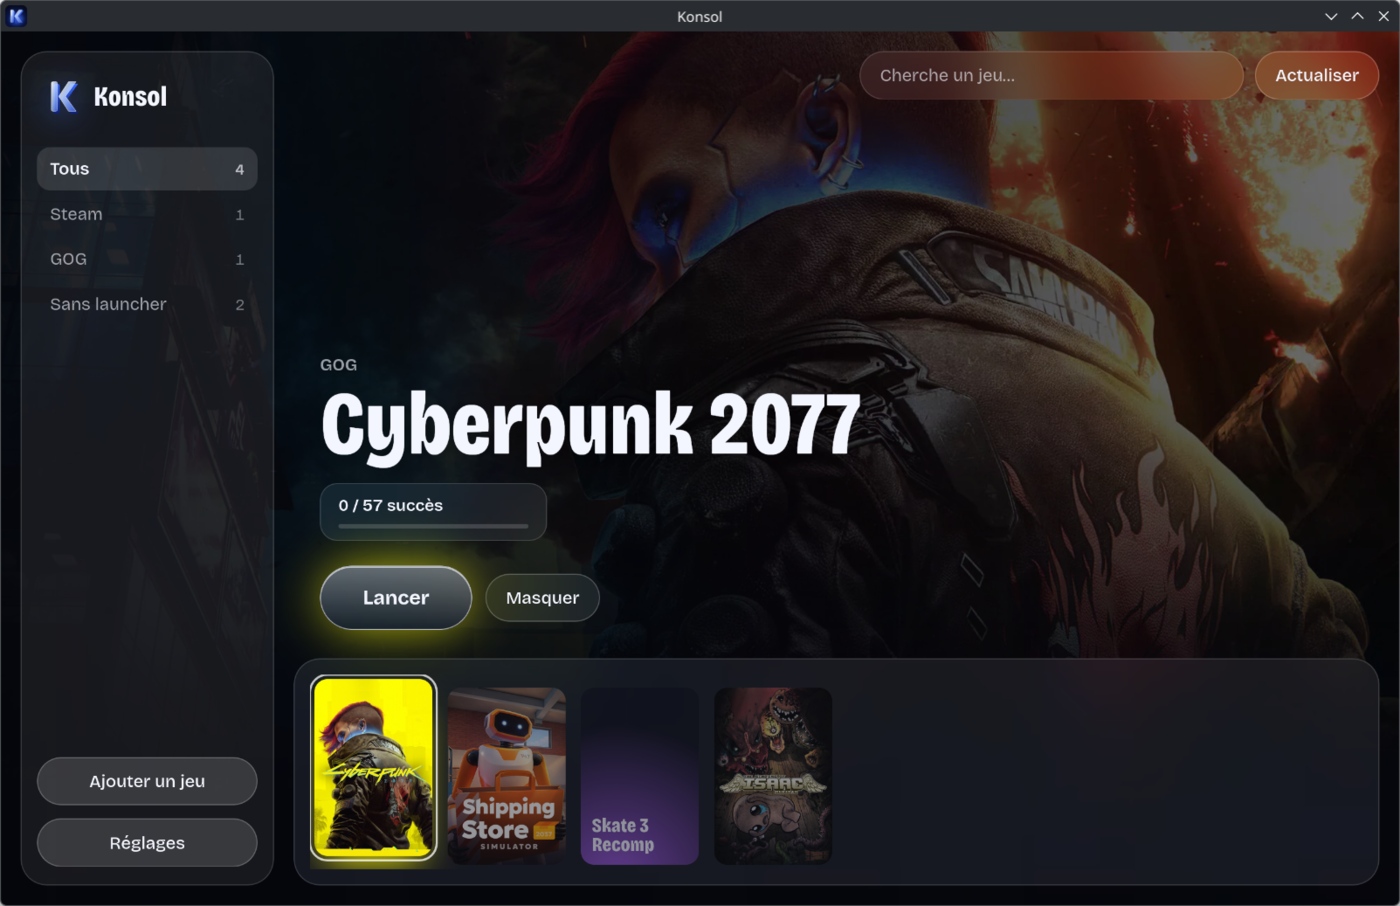
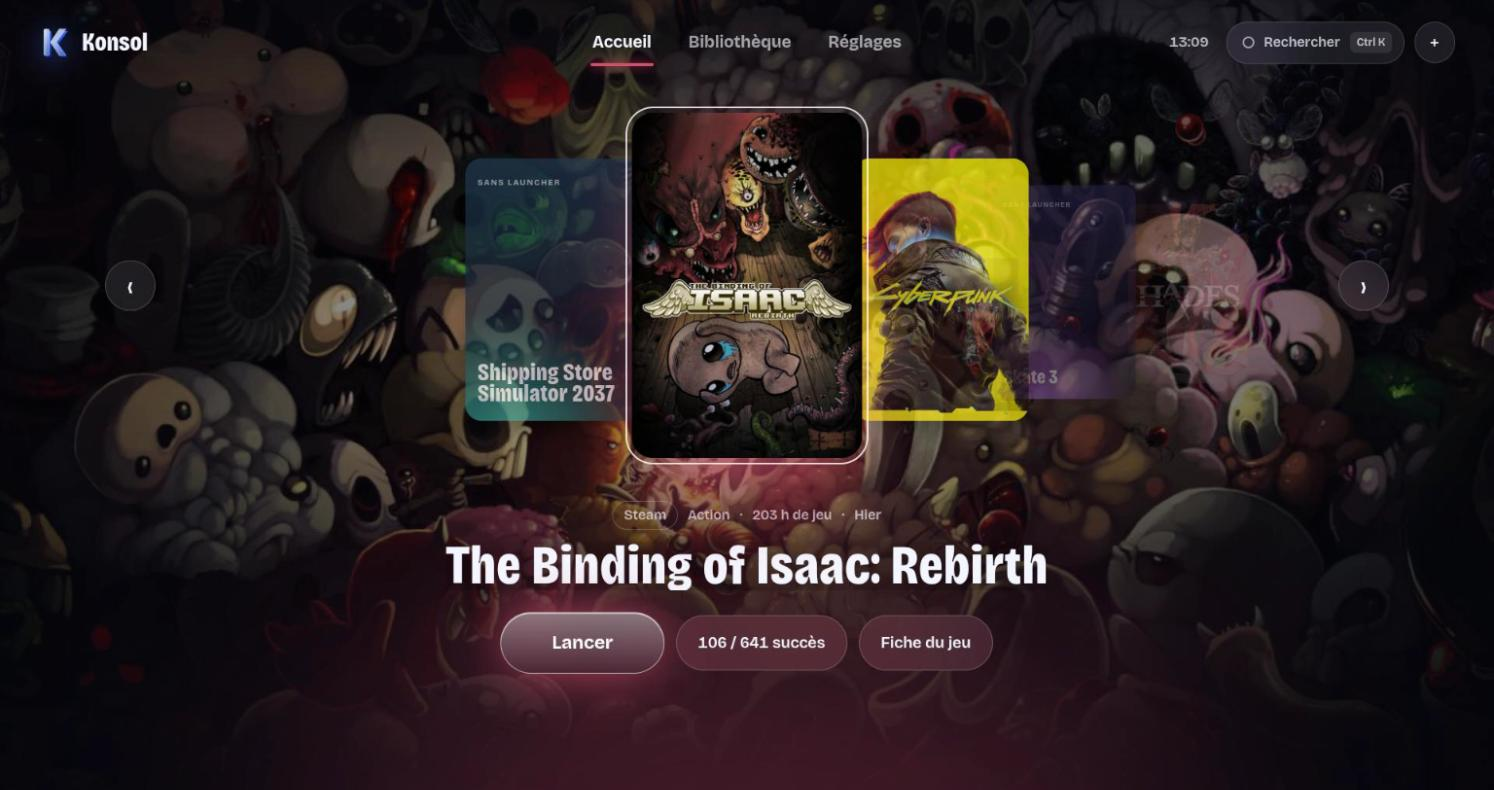
📝 docs: rewrite README for the Carrousel interface and releases

diff --git a/README.md b/README.md
@@ -6,25 +6,48 @@
 
 Tous les jeux du PC au même endroit, lancés sans ouvrir leur launcher.
 
-[![KDE Plasma 6](https://img.shields.io/badge/KDE%20Plasma%206-Linux-0b1a4d?style=for-the-badge)](#-installation)
+[![Télécharger](https://img.shields.io/github/v/release/qyrn/konsol?label=t%C3%A9l%C3%A9charger&color=4a7bff&style=for-the-badge)](../../releases/latest)
+[![Linux](https://img.shields.io/badge/Linux-KDE%20Plasma%206-0b1a4d?style=for-the-badge)](../../releases/latest)
 
 <br />
 
-<img src="docs/hero.png" width="600" alt="Konsol avec Cyberpunk 2077 sélectionné : l'image du jeu en fond, son titre en grand, 0 / 57 succès, le bouton Lancer, et en bas les jaquettes de Cyberpunk, Shipping Store Simulator, Skate 3 Recomp et Isaac" />
+<img src="docs/hero.png" width="600" alt="L'accueil de Konsol : un carrousel de jaquettes avec The Binding of Isaac au centre, son titre en grand, Action, 203 h de jeu, Hier, et les boutons Lancer, 106 / 641 succès et Fiche du jeu" />
 
 </div>
 
 <br />
 
-J'en avais marre d'ouvrir Steam, Heroic ou un launcher différent à chaque fois que je voulais jouer. Alors j'ai fait Konsol : tous les jeux installés sont dans une seule fenêtre, tu choisis, tu lances, et le launcher reste caché derrière.
+J'en avais marre d'ouvrir Steam, Heroic ou un launcher différent à chaque fois que je voulais jouer. Alors j'ai fait Konsol : tous les jeux du PC sont dans une seule fenêtre, tu choisis, tu lances, et le launcher reste caché derrière.
 
-## 🎮 Tous tes jeux, d'où qu'ils viennent
+## 🎮 Tous tes jeux, même ceux sans launcher
 
-Konsol va chercher tout seul les jeux Steam, ceux de Heroic (GOG, Epic et Amazon) et les jeux sans launcher qui ont un raccourci dans ton menu, genre un repack dans un préfixe Wine ou un recomp natif. Il garde seulement les vrais jeux : les outils de Steam comme Proton, les logiciels comme Wallpaper Engine et les raccourcis de launchers passent à la trappe.
+Konsol va chercher tout seul les jeux Steam, ceux de Heroic (GOG, Epic et Amazon), les jeux qui ont un raccourci dans ton menu et ceux qui traînent dans tes dossiers de jeux, genre un repack installé dans un préfixe Wine ou un recomp natif. Télécharge un nouveau jeu dans `~/Games` et il apparaît quelques secondes plus tard, sans rien faire. Les outils de Steam comme Proton, les logiciels comme Wallpaper Engine et les launchers passent à la trappe.
 
-Le jeu sélectionné prend toute la fenêtre avec son image, et l'interface prend sa couleur. Les flèches `←` et `→` passent d'un jeu à l'autre, `Entrée` ou un double-clic sur une jaquette le lance. Pour les jeux qui sont pas sur Steam, Konsol récupère quand même la jaquette et le fond sur le store Steam, ou sur SteamGridDB si t'as mis ta clé dans les Réglages.
+Sur l'accueil, tes jeux installés défilent en carrousel, du dernier joué au plus ancien. Les flèches `←` et `→` passent d'un jeu à l'autre, `Entrée` ou un double-clic le lance, et `Ctrl K` ouvre la recherche. L'image du jeu prend tout le fond et l'interface prend sa couleur.
 
-Un jeu qui n'a aucun raccourci ? Clique sur Ajouter un jeu, donne-lui un nom et le chemin complet du fichier qui le lance.
+> [!TIP]
+> Konsol fouille `~/Games` et `~/Jeux` par défaut. Tu changes la liste dans Réglages, Sources, Dossiers de jeux.
+
+## 📚 Toute ta bibliothèque, rangée par genre
+
+L'onglet Bibliothèque montre aussi les jeux que t'as achetés sans les installer, rangés par genre : Action, RPG, Aventure, Simulation… En haut, la rangée À essayer te propose des jeux que t'as à peine lancés et qui ressemblent à ceux où tu passes le plus de temps, avec le jeu qui a fait pencher la balance. Sur un jeu pas installé, le bouton Installer ouvre directement Steam ou Heroic sur la bonne page.
+
+<div align="center">
+<img src="docs/library.png" width="560" alt="La bibliothèque avec la rangée À essayer : Hades, Hollow Knight, Elden Ring, Vampire Survivors et Stardew Valley, chacun avec la phrase Parce que tu joues à, puis la rangée Action" />
+</div>
+
+> [!NOTE]
+> Pour les jeux Steam pas installés, il faut une clé API Steam dans Réglages, Clés API. GOG, Epic et Amazon viennent de Heroic, rien à faire.
+
+## ⏱ Ton temps de jeu, même sans launcher
+
+La fiche d'un jeu affiche son studio, son année et son genre, ton temps de jeu, tes succès, sa place sur le disque et ta dernière session. Pour Steam et Heroic, le temps vient de leurs fichiers. Pour les jeux sans launcher, c'est Konsol qui chronomètre, même si tu lances le jeu depuis le menu de KDE, et il retrouve ta dernière session dans l'historique de KDE.
+
+<div align="center">
+<img src="docs/detail.png" width="560" alt="La fiche de The Binding of Isaac : Nicalis, 2014, Action, 203 h de jeu, 106 / 641 succès, 1,6 Go sur le disque, dernière session hier" />
+</div>
+
+Quand tu fermes la fenêtre, Konsol reste dans la barre système pour continuer à compter. Pendant une partie, l'accueil affiche un chrono et le bouton Arrêter la session.
 
 ## 🙈 Le launcher reste caché
 
@@ -34,71 +57,72 @@ Au premier lancement d'un jeu depuis Konsol, il repère sa fenêtre et lui crée
 
 ## 🏆 Les succès, avec une notif quand tu en débloques un
 
-Sous le titre du jeu, Konsol affiche où t'en es dans ses succès. Clique dessus pour voir la liste complète avec les icônes et la date de chaque déblocage.
-
-Pendant que tu joues à un jeu lancé depuis Konsol, il surveille tes succès. Dès que t'en débloques un, une notification KDE apparaît avec son icône et sa description. Ça marche pour les jeux Steam et pour les repacks qui enregistrent leurs succès dans `SteamData/user_stats.ini`.
+Clique sur « x / y succès » pour voir la liste complète, avec les icônes, la date de chaque déblocage et le pourcentage de joueurs qui l'ont. Pendant que tu joues, Konsol surveille tes succès et t'envoie une notification KDE dès que t'en débloques un. Ça marche pour Steam et pour les repacks qui enregistrent leurs succès dans `SteamData/user_stats.ini`.
 
 > [!NOTE]
-> Pour GOG, les succès viennent du cache de Heroic, donc ils se mettent à jour quand Heroic se synchronise, pas en direct. Pour les repacks, colle une clé API Steam dans les Réglages pour avoir les vrais noms et les icônes, sinon Konsol affiche les noms techniques remis en forme.
+> Pour GOG, les succès viennent du cache de Heroic, donc ils bougent quand Heroic se synchronise. Pour les repacks, une clé API Steam donne les vrais noms et les icônes.
 
 ## 📥 Installation
 
-Pas encore de version à télécharger, Konsol s'installe depuis les sources pour l'instant. Il te faut Rust, pnpm, `webkit2gtk-4.1`, `kdotool` et `notify-send` (paquet `libnotify`), puis dans le dossier du projet :
-
-```bash
-pnpm install
-pnpm install-local
-```
-
-Konsol apparaît ensuite dans ton menu, avec son icône dans la barre des tâches.
+1. Télécharge `Konsol_x.x.x_amd64.AppImage` sur la [page des versions](../../releases/latest).
+2. Clic droit sur le fichier, Propriétés, Permissions, coche « Est exécutable », puis double-clique dessus.
+3. C'est parti : tes jeux apparaissent tout de suite. Active Lancer Konsol au démarrage du PC dans Réglages, Général, pour l'avoir tout le temps sous la main.
 
 > [!NOTE]
-> Konsol est fait pour KDE Plasma 6. Sans `kdotool`, les icônes des jeux dans la barre des tâches ne marchent pas, et sans `notify-send`, pas de notification de succès. Le reste tourne quand même.
+> Konsol est fait pour KDE Plasma 6. Installe `kdotool` pour les icônes des jeux dans la barre des tâches et `libnotify` pour les notifications de succès. Sans eux, le reste marche quand même.
 
 ## 🔄 Les mises à jour
 
-Pas de mise à jour automatique. Récupère la dernière version du code et relance `pnpm install-local`, ça remplace l'ancienne. Ta config et tes jeux ajoutés à la main ne bougent pas.
+Au lancement, Konsol regarde s'il y a une nouvelle version sur GitHub et la télécharge en fond. Quand elle est prête, un bandeau Redémarrer apparaît en bas à droite, un clic et c'est fait. Pas besoin de retélécharger l'AppImage. Tu peux aussi vérifier à la main dans Réglages, À propos.
 
 ## 🔒 Et tes données ?
 
-Konsol lit les fichiers de Steam et de Heroic sur ton PC, il se connecte à aucun de tes comptes.
+Konsol lit les fichiers de Steam, de Heroic et de KDE sur ton PC, il se connecte à aucun de tes comptes.
 
 Ce qui sort de ta machine :
 
-- le nom des jeux sans launcher, envoyé au store Steam pour trouver leur jaquette, puis à SteamGridDB si t'as mis une clé ;
-- les numéros de jeux Steam, pour savoir si c'est un jeu ou un logiciel, et pour récupérer les succès des repacks si t'as mis une clé API Steam ;
-- les téléchargements des images (jaquettes, fonds, icônes de succès) depuis Steam, GOG et SteamGridDB.
+- le nom des jeux qui sont pas sur Steam, envoyé au store Steam pour trouver leur jaquette et leur genre, puis à SteamGridDB si t'as mis une clé ;
+- les numéros de jeux Steam, pour leurs infos, la rareté des succès et le schéma des succès des repacks ;
+- ton identifiant Steam, seulement si t'as mis une clé API Steam, pour récupérer la liste de tes jeux ;
+- les téléchargements des images depuis Steam, GOG et SteamGridDB, et la vérification des mises à jour sur GitHub.
 
 Ce qui est stocké :
 
-- `~/.config/dev.qyrn.konsol/config.json` : tes jeux ajoutés à la main, les jeux masqués et tes clés API (lisible que par toi) ;
-- `~/.cache/dev.qyrn.konsol/` : les images téléchargées et les infos trouvées en ligne, tu peux le vider quand tu veux ;
-- `~/.local/share/applications/konsol-*.desktop` et `~/.local/share/dev.qyrn.konsol/icons/` : les raccourcis créés pour les icônes de la barre des tâches.
+- `~/.config/dev.qyrn.konsol/config.json` : tes jeux ajoutés à la main, tes dossiers de jeux, les jeux masqués, tes réglages et tes clés API (lisible que par toi) ;
+- `~/.local/share/dev.qyrn.konsol/playtime.json` : le temps de jeu que Konsol a compté ;
+- `~/.cache/dev.qyrn.konsol/` : les images et les infos trouvées en ligne, tu peux le vider quand tu veux ;
+- `~/.local/share/applications/konsol-*.desktop` : les raccourcis créés pour les icônes de la barre des tâches, et `~/.config/autostart/konsol.desktop` si t'as activé le démarrage auto.
 
 ## 🤔 Si ça coince
 
 <details>
-<summary><b>Un de mes jeux n'apparaît pas</b></summary>
+<summary><b>Un de mes jeux sans launcher n'apparaît pas</b></summary>
 <br />
-Pour un jeu sans launcher, Konsol a besoin d'un raccourci dans ton menu avec la catégorie Jeux, et le fichier qu'il lance doit exister. Les raccourcis qui contiennent « launcher » dans leur nom sont ignorés exprès. Sinon, ajoute-le avec Ajouter un jeu.
+Konsol cherche dans tes dossiers de jeux, jusqu'à deux sous-dossiers de profondeur, et dans les préfixes Wine. Vérifie que le dossier du jeu est dans Réglages, Sources, Dossiers de jeux. Les fichiers qui ressemblent à un installeur, un launcher ou un outil sont ignorés exprès : dans ce cas, ajoute le jeu à la main avec le bouton +.
 </details>
 
 <details>
-<summary><b>« Ce jeu n'est plus dans la liste, actualise la bibliothèque. »</b></summary>
+<summary><b>Konsol a trouvé un truc qui n'est pas un jeu</b></summary>
 <br />
-Le jeu a été désinstallé ou déplacé depuis la dernière recherche. Clique sur Actualiser en haut à droite.
+Ouvre sa fiche et clique sur Masquer, il disparaît de l'accueil et de la bibliothèque. Tu le retrouves avec le bouton Masqués dans la Bibliothèque.
+</details>
+
+<details>
+<summary><b>Mes jeux Steam pas installés n'apparaissent pas</b></summary>
+<br />
+Il faut une clé API Steam dans Réglages, Clés API, et Steam doit être connecté à ton compte sur ce PC. La liste se met à jour toutes les six heures.
 </details>
 
 <details>
 <summary><b>« Impossible de lancer le jeu »</b></summary>
 <br />
-La commande du jeu n'a pas pu démarrer, la suite du message dit pourquoi. Pour Steam et Heroic, vérifie qu'ils sont bien installés. Pour un jeu ajouté à la main, vérifie que le chemin est toujours bon.
+La commande du jeu n'a pas pu démarrer, la suite du message dit pourquoi. Pour Steam et Heroic, vérifie qu'ils sont installés. Pour un jeu Windows trouvé dans un dossier, Konsol passe par <code>umu-run</code> ou <code>wine</code>, il en faut au moins un.
 </details>
 
 <details>
-<summary><b>La barre des tâches affiche encore l'icône par défaut</b></summary>
+<summary><b>« Le jeu ne tourne plus. »</b></summary>
 <br />
-Konsol apprend la fenêtre du jeu au premier lancement, la bonne icône arrive au lancement suivant. Ça marche seulement si le jeu est lancé depuis Konsol et que <code>kdotool</code> est installé.
+Le jeu s'est fermé entre-temps, y'a plus rien à arrêter.
 </details>
 
 <details>
@@ -108,9 +132,9 @@ Les clés SteamGridDB et Steam sont faites uniquement de lettres et de chiffres.
 </details>
 
 <details>
-<summary><b>Je reçois pas de notification de succès</b></summary>
+<summary><b>La mise à jour ne se fait pas</b></summary>
 <br />
-Les notifications arrivent seulement pour un jeu lancé depuis Konsol, et Konsol doit rester ouvert pendant que tu joues. Pour GOG, y'a pas de direct : les succès bougent quand Heroic se synchronise.
+Les mises à jour automatiques marchent seulement avec l'AppImage. Si t'as installé Konsol depuis le code, mets-le à jour avec <code>git pull</code> puis <code>pnpm install-local</code>.
 </details>
 
 ---
@@ -125,7 +149,7 @@ Tauri 2 (Rust 1.99) avec React 19, TypeScript et Vite. Node 26+ et pnpm 12+.
 ### Prérequis
 
 - Rust et Cargo, pour le backend Tauri
-- `webkit2gtk-4.1`, `appmenu-gtk-module`, `libappindicator-gtk3` et `xdotool`, les dépendances système de Tauri sous Linux
+- `webkit2gtk-4.1`, `libappindicator-gtk3` et `librsvg`, les dépendances système de Tauri sous Linux
 - `kdotool` pour retrouver la fenêtre d'un jeu, `notify-send` pour les notifications de succès
 
 ### Commandes
@@ -140,17 +164,30 @@ pnpm install-local    # compile la release et l'installe dans ~/.local
 cd src-tauri && cargo clippy --all-targets
 ```
 
+### Publier une version
+
+1. Change la version dans `package.json`, `src-tauri/Cargo.toml` et `src-tauri/tauri.conf.json`.
+2. Commite, puis `git tag v0.3.0 && git push --tags`.
+3. Le workflow `Release` construit l'AppImage, la signe avec le secret `TAURI_SIGNING_PRIVATE_KEY` et publie `latest.json`, que les Konsol installés lisent pour se mettre à jour.
+
+La clé privée de signature reste hors du dépôt. Si elle est perdue, les versions déjà installées ne pourront plus se mettre à jour toutes seules.
+
 Le logo vient de `design/konsol-icon.svg`. Pour régénérer les icônes, exporte-le en PNG 1024 px avec `magick design/konsol-icon.svg -resize 1024x1024 design/konsol-icon.png`, puis lance `pnpm tauri icon design/konsol-icon.png`.
 
-| Dossier                      | Rôle                                                        |
-| ---------------------------- | ----------------------------------------------------------- |
-| `src`                        | L'interface React                                           |
-| `src-tauri/src/sources`      | La recherche des jeux : Steam, Heroic et raccourcis du menu |
-| `src-tauri/src/metadata`     | Les jaquettes et infos trouvées en ligne, gardées en cache  |
-| `src-tauri/src/achievements` | La lecture des succès Steam, GOG et repacks                 |
-| `src-tauri/src/commands`     | Les commandes appelées par l'interface                      |
-| `design`                     | Le logo en SVG                                              |
-| `scripts`                    | L'installation locale avec le raccourci du menu             |
-| `docs`                       | Les captures du README                                      |
+| Dossier                      | Rôle                                                                  |
+| ---------------------------- | --------------------------------------------------------------------- |
+| `src`                        | L'interface React                                                     |
+| `src-tauri/src/sources`      | La recherche des jeux : Steam, Heroic, raccourcis et dossiers de jeux |
+| `src-tauri/src/metadata`     | Les jaquettes, genres et infos trouvés en ligne, gardés en cache      |
+| `src-tauri/src/achievements` | La lecture des succès Steam, GOG et repacks                           |
+| `src-tauri/src/commands`     | Les commandes appelées par l'interface                                |
+| `.github/workflows`          | La construction et la publication des versions                        |
+| `design`                     | Le logo en SVG                                                        |
+| `scripts`                    | L'installation locale depuis le code                                  |
+| `docs`                       | Les captures du README                                                |
 
 </details>
+
+## 📄 Licence
+
+[MIT](LICENSE)
